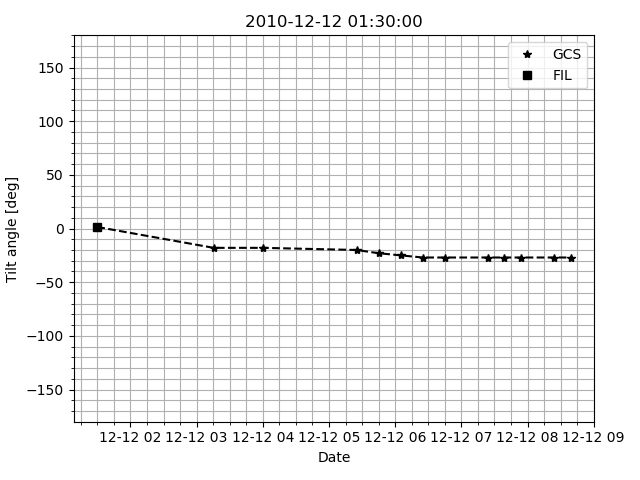
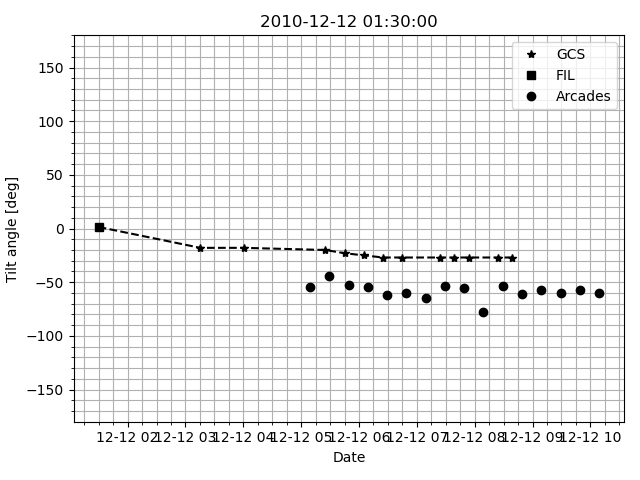
added plot of all arcades props

Changed region(s): [[0.125, 0.0625, 0.9688, 0.9688], [0.375, 0.0312, 0.6875, 0.0625]]

diff --git a/tools/iglesias/compare_all_prop.py b/tools/iglesias/compare_all_prop.py
@@ -42,17 +42,20 @@ def correct_ang(iang, flip=0):
 
 # main
 local_path = os.getcwd()
-repo_path = os.path.dirname(os.path.dirname(local_path))
+repo_path = local_path # os.path.dirname(os.path.dirname(local_path))
 opath = repo_path + '/output_data/compare_all_prop'
 
 # filaments data (fil)
 fil_file = repo_path + '/output_data/filaments.csv'
 
 # GCS data (gcs)
-gcs_dir = '/media/sf_onedrive_utn/work/repository/cme_expansion/GCSs'
+gcs_dir = repo_path + '/GCSs'
 
 # Magnetic AR data (ar)
 ar_file = repo_path + '/input_data/ar.csv'
+
+#arcades prop
+arcades_file = repo_path + '/output_data/arcades/props/all_arcades_props.csv'
 
 # constants
 # dates and sources [gcs,fil,ar] to flip tilt angle signs if angle >80 deg
@@ -67,6 +70,10 @@ df_fil['date'] = pd.to_datetime(df_fil['date'], format='%Y-%m-%d %H:%M:%S')
 # reads ar
 df_ar = pd.read_csv(ar_file, header=0, delimiter=',')
 df_ar['ar_time_tilt'] = pd.to_datetime(df_ar['ar_time_tilt'], format='%Y/%m/%d %H:%M:%S')
+
+# reads arcades 
+df_arcades = pd.read_csv(arcades_file, header=0, delimiter=',')
+df_arcades['date'] = pd.to_datetime(df_arcades['date'], format='%Y-%m-%d %H:%M:%S')
 
 # reads only the gcs .sav files for the dates in fil
 gcs = []
@@ -131,6 +138,13 @@ for d in df_fil['date']:
             gcs_vs_ar_val.append([gcs_val[0], y2])
             gcs_times = np.concatenate((gcs_times, [i.to_pydatetime() for i in x2]), axis=None)
             gcs_val = np.concatenate((gcs_val, y2), axis=None)
+        #adds arcade mean titls
+        x3 = df_arcades.loc[df_arcades['date'].dt.date == d.date(), 'date']
+        y3 = df_arcades.loc[df_arcades['date'].dt.date == d.date(), 'tilt mean [deg]']
+        # subtracts 180 if y3 is larger than 90
+        y3 = np.array(y3).astype(float)
+        y3 = correct_ang(y3, flip=0)
+        plt.plot(x3, y3, 'ok', label='Arcades')
         ind = np.argsort(gcs_times)
         gcs_times = gcs_times[ind]
         gcs_val = gcs_val[ind]

diff --git a/tools/iglesias/arcades_all_prop.py b/tools/iglesias/arcades_all_prop.py
@@ -16,5 +16,5 @@ for prop in prop_to_plot:
     plt.plot(df['event'], df[prop], 'o')
     plt.xlabel('event')
     plt.title(prop)
-    plt.savefig(local_path + '/output_data/arcades/props/'+prop[0:-7]+'.png')
+    plt.savefig(local_path + '/output_data/arcades/props/'+prop[0:-6]+'.png')
 
